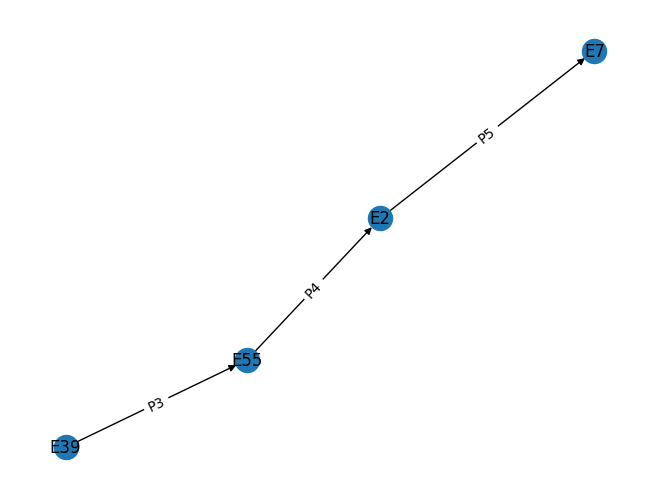
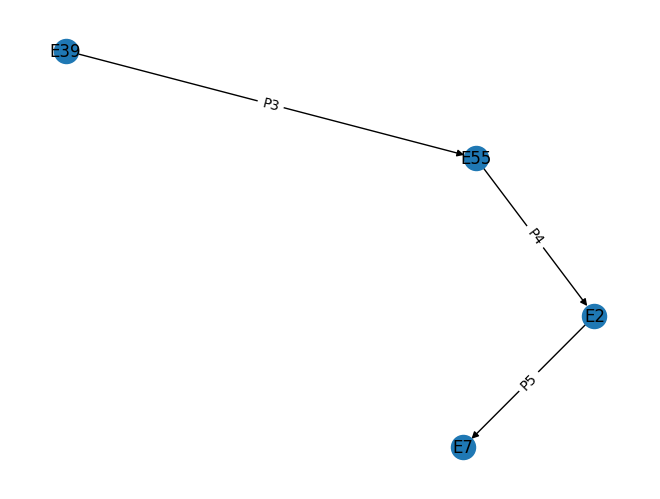
readme

diff --git a/test-projects/ged_example.py b/test-projects/ged_example.py
@@ -13,20 +13,12 @@ G1.add_nodes_from([1, 2, 3, 4])
 G2.add_nodes_from([1, 2, 3, 4])
 
 # %%
-#### Add edges and edges properties
-### G1
+### G1 ###############################################
 G1.add_edges_from([(1, 2), (2, 3), (3, 4)])
-## attributes
-# edges
-G1_attrs_edges = {(0, 1): {"property": 'is identified by'}, (1, 2): {"property": 'was influenced by'}, (2, 3): {"property": 'has note'}, (3, 4):{"property": 'has time-span'}}
+G1_attrs_edges = {(1, 2): {"property": 'P3'}, (2, 3): {"property": 'P4'}, (3, 4):{"property": 'P5'}}
 nx.set_edge_attributes(G1, G1_attrs_edges)
-# nodes
-G1_attrs_nodes = {1: {"entity": 'E39 Actors'}, 2: {"entity": 'E55 Types'}, 3:{"entity": 'E2 Temporal Entities'}, 4:{"entity": 'E7 Activity'}}
+G1_attrs_nodes = {1: {"entity": 'E39'}, 2: {"entity": 'E55'}, 3:{"entity": 'E2'}, 4:{"entity": 'E7'}}
 nx.set_node_attributes(G1, G1_attrs_nodes)
-# G1.node[1]['entity'] = 'E39 Actors'
-# G1.node[2]['entity'] = 'E55 Types'
-# G1.node[3]['entity'] = 'E2 Temporal Entities'
-# G1.node[4]['entity'] = 'E53 Places'
 
 # %%
 p = nx.spring_layout(G1)
@@ -37,16 +29,19 @@ nx.draw_networkx_edge_labels(G1, pos=p, edge_labels = G1_labels_edges)
 
 # %%
 
-### G2
+### G2 ########################################################
 G2.add_edges_from([(1, 2), (2, 3), (4, 3)])
-## attributes
-# edges
-attrs_edges_G2 = {(0, 1): {"property": 'consists of'}, (2, 3): {"property": 'has note'}, (4, 3):{"property": 'has time-span'}}
-nx.set_edge_attributes(G1, attrs_edges_G2)
-# nodes
+G2_attrs_edges = {(1, 2): {"property": 'P3'}, (2, 3): {"property": 'P1'}, (4, 3):{"property": 'P5'}}
+nx.set_edge_attributes(G2, G2_attrs_edges)
+G2_attrs_nodes = {1: {"entity": 'E39'}, 2: {"entity": 'E55'}, 3:{"entity": 'E2'}, 4:{"entity": 'E7'}}
+nx.set_node_attributes(G2, G2_attrs_nodes)
 
-attrsG1 = {(0, 1): {"property": 20}, (2, 3): {"property": 3}, (3, 4):{"property": 3}}
-
+# %%
+# p = nx.spring_layout(G2)
+G2_labels_nodes = nx.get_node_attributes(G2, 'entity')
+G2_labels_edges = nx.get_edge_attributes(G2, 'property')
+nx.draw(G2, pos=p, labels = G2_labels_nodes, with_labels = True)
+nx.draw_networkx_edge_labels(G2, pos=p, edge_labels = G2_labels_edges)
 
 # %%
 # Calculate the number of common edges between G1 and G2
